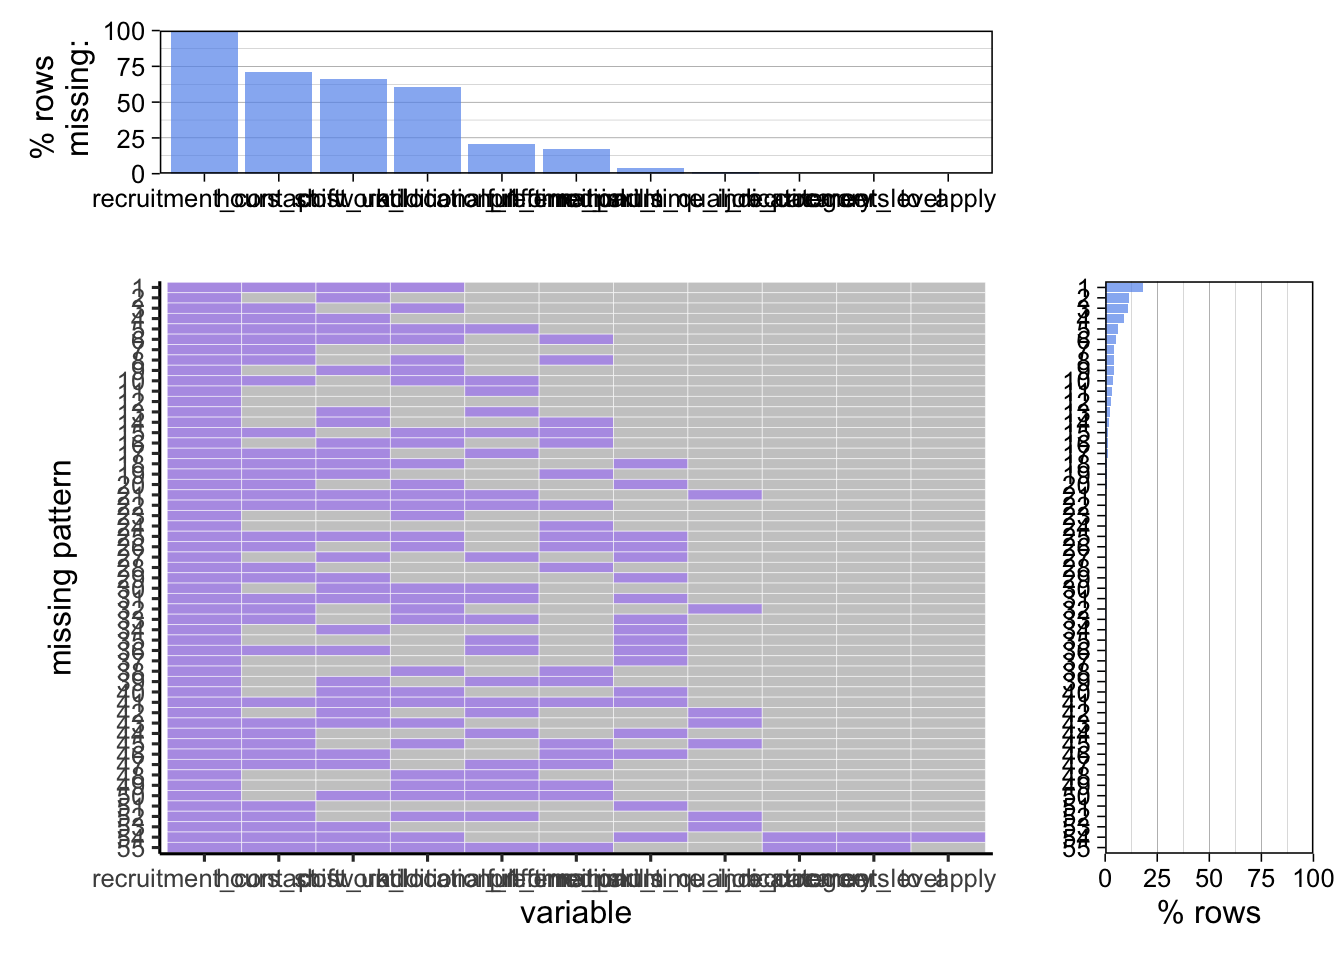
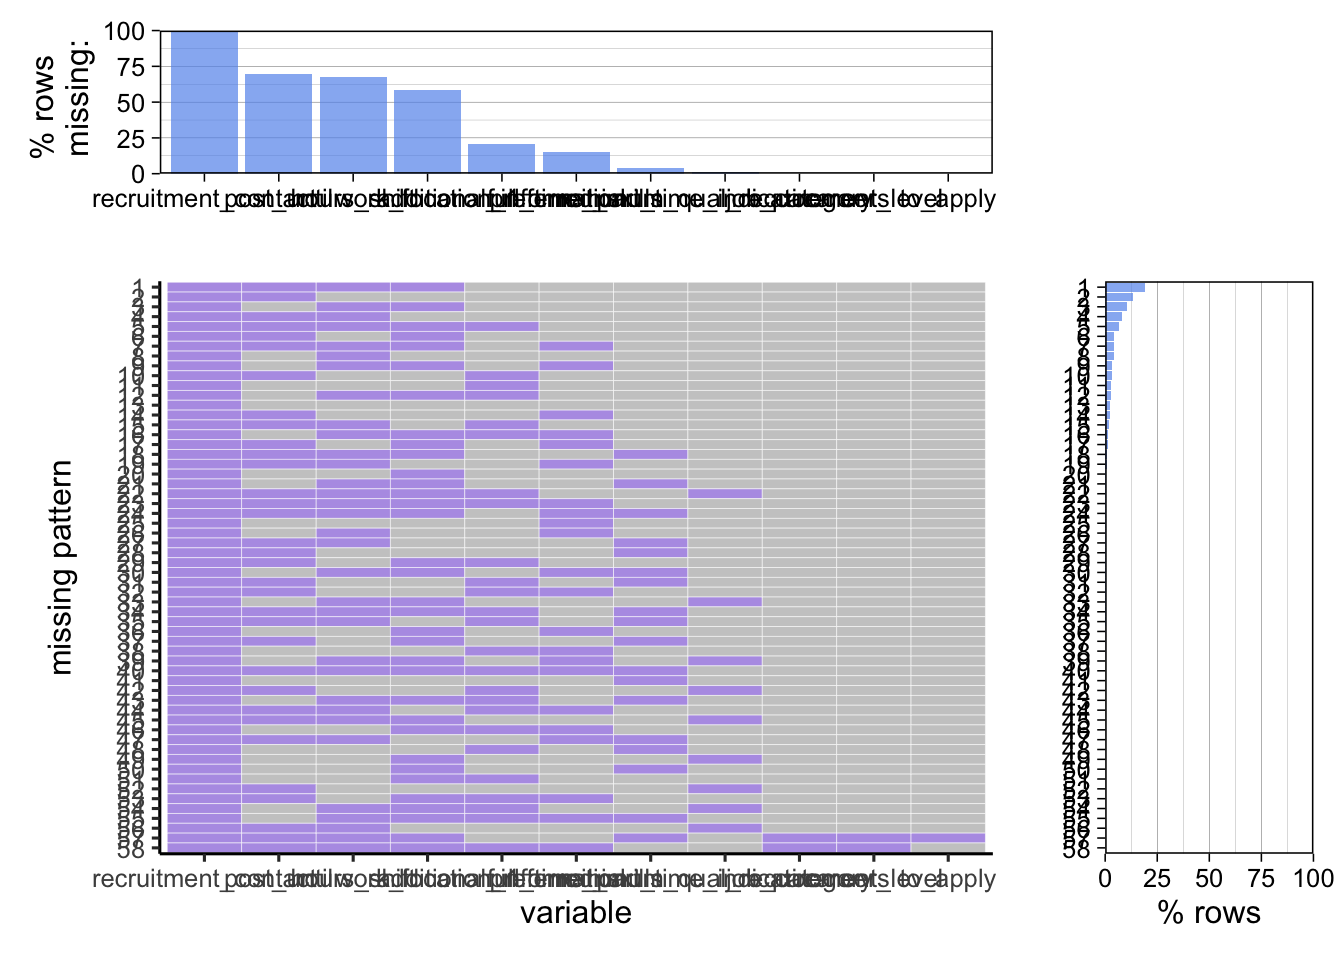
added some commentary to data.rmd

diff --git a/docs/data.html b/docs/data.html
@@ -23,7 +23,7 @@
 <meta name="author" content="Margaret Reed, Yaxin Hu, Yizhou Zhao" />
 
 
-<meta name="date" content="2022-12-12" />
+<meta name="date" content="2022-12-15" />
 
   <meta name="viewport" content="width=device-width, initial-scale=1" />
   <meta name="apple-mobile-web-app-capable" content="yes" />
@@ -84,7 +84,12 @@
 <li class="chapter" data-level="3.2" data-path="data.html"><a href="data.html#cleaning-transformation"><i class="fa fa-check"></i><b>3.2</b> Cleaning / transformation</a></li>
 <li class="chapter" data-level="3.3" data-path="data.html"><a href="data.html#missing-value-analysis"><i class="fa fa-check"></i><b>3.3</b> Missing value analysis</a></li>
 </ul></li>
-<li class="chapter" data-level="4" data-path="results.html"><a href="results.html"><i class="fa fa-check"></i><b>4</b> Results</a></li>
+<li class="chapter" data-level="4" data-path="results.html"><a href="results.html"><i class="fa fa-check"></i><b>4</b> Results</a>
+<ul>
+<li class="chapter" data-level="4.1" data-path="results.html"><a href="results.html#data-exploration"><i class="fa fa-check"></i><b>4.1</b> Data exploration</a></li>
+<li class="chapter" data-level="4.2" data-path="results.html"><a href="results.html#salary-analysis"><i class="fa fa-check"></i><b>4.2</b> Salary analysis</a></li>
+<li class="chapter" data-level="4.3" data-path="results.html"><a href="results.html#required-skills"><i class="fa fa-check"></i><b>4.3</b> Required skills</a></li>
+</ul></li>
 <li class="chapter" data-level="5" data-path="interactive-component.html"><a href="interactive-component.html"><i class="fa fa-check"></i><b>5</b> Interactive component</a></li>
 <li class="chapter" data-level="6" data-path="conclusion.html"><a href="conclusion.html"><i class="fa fa-check"></i><b>6</b> Conclusion</a></li>
 <li class="divider"></li>
@@ -139,42 +144,42 @@ for the job.</p>
 </div>
 <div id="cleaning-transformation" class="section level2 hasAnchor" number="3.2">
 <h2><span class="header-section-number">3.2</span> Cleaning / transformation<a href="data.html#cleaning-transformation" class="anchor-section" aria-label="Anchor link to header"></a></h2>
+<p>In order to clean the data we first made sure that all of the variable names were in a form that were easy to reference, no spaces or capital letters. Then we made some simplified variables, so that analysis was not so complicated. These variables included job category, agency, and job level. We had to transform the dates into a form that R would recognize. Finally, we made a new variable based on if a job posting had required skills or not.</p>
 </div>
 <div id="missing-value-analysis" class="section level2 hasAnchor" number="3.3">
 <h2><span class="header-section-number">3.3</span> Missing value analysis<a href="data.html#missing-value-analysis" class="anchor-section" aria-label="Anchor link to header"></a></h2>
-<pre><code>##           recruitment_contact                   hours_shift 
-##                          5321                          3772 
-##                    post_until               work_location_1 
-##                          3510                          3237 
-##        additional_information              preferred_skills 
-##                          1107                           900 
-## full_time_part_time_indicator     minimum_qual_requirements 
-##                           230                            53 
-##                  job_category                  career_level 
+<pre><code>##           Recruitment Contact                    Post Until 
+##                          5630                          3917 
+##                   Hours/Shift               Work Location 1 
+##                          3795                          3305 
+##        Additional Information              Preferred Skills 
+##                          1172                           871 
+## Full-Time/Part-Time indicator     Minimum Qual Requirements 
+##                           215                            64 
+##                  Job Category                  Career Level 
 ##                             2                             2 
-##                      to_apply                        job_id 
+##                      To Apply                        Job ID 
 ##                             1                             0 
-##                        agency                  posting_type 
+##                        Agency                  Posting Type 
 ##                             0                             0 
-##           number_of_positions                business_title 
+##                # Of Positions                Business Title 
 ##                             0                             0 
-##           civil_service_title          title_classification 
+##           Civil Service Title          Title Classification 
 ##                             0                             0 
-##                 title_code_no                         level 
+##                 Title Code No                         Level 
 ##                             0                             0 
-##             salary_range_from               salary_range_to 
+##             Salary Range From               Salary Range To 
 ##                             0                             0 
-##              salary_frequency                 work_location 
+##              Salary Frequency                 Work Location 
 ##                             0                             0 
-##            division_work_unit               job_description 
+##            Division/Work Unit               Job Description 
 ##                             0                             0 
-##         residency_requirement                  posting_date 
+##         Residency Requirement                  Posting Date 
 ##                             0                             0 
-##               posting_updated                  process_date 
-##                             0                             0 
-##               category_simple 
-##                             0</code></pre>
+##               Posting Updated                  Process Date 
+##                             0                             0</code></pre>
 <p><img src="finalproj_files/figure-html/missing-data-1.png" width="672" /></p>
+<p>It seems that the most common missing variable is <code>recruitment_contact</code>, with <code>hours_shift</code> and <code>post_until</code> also being quite common.</p>
 
 </div>
 </div>
